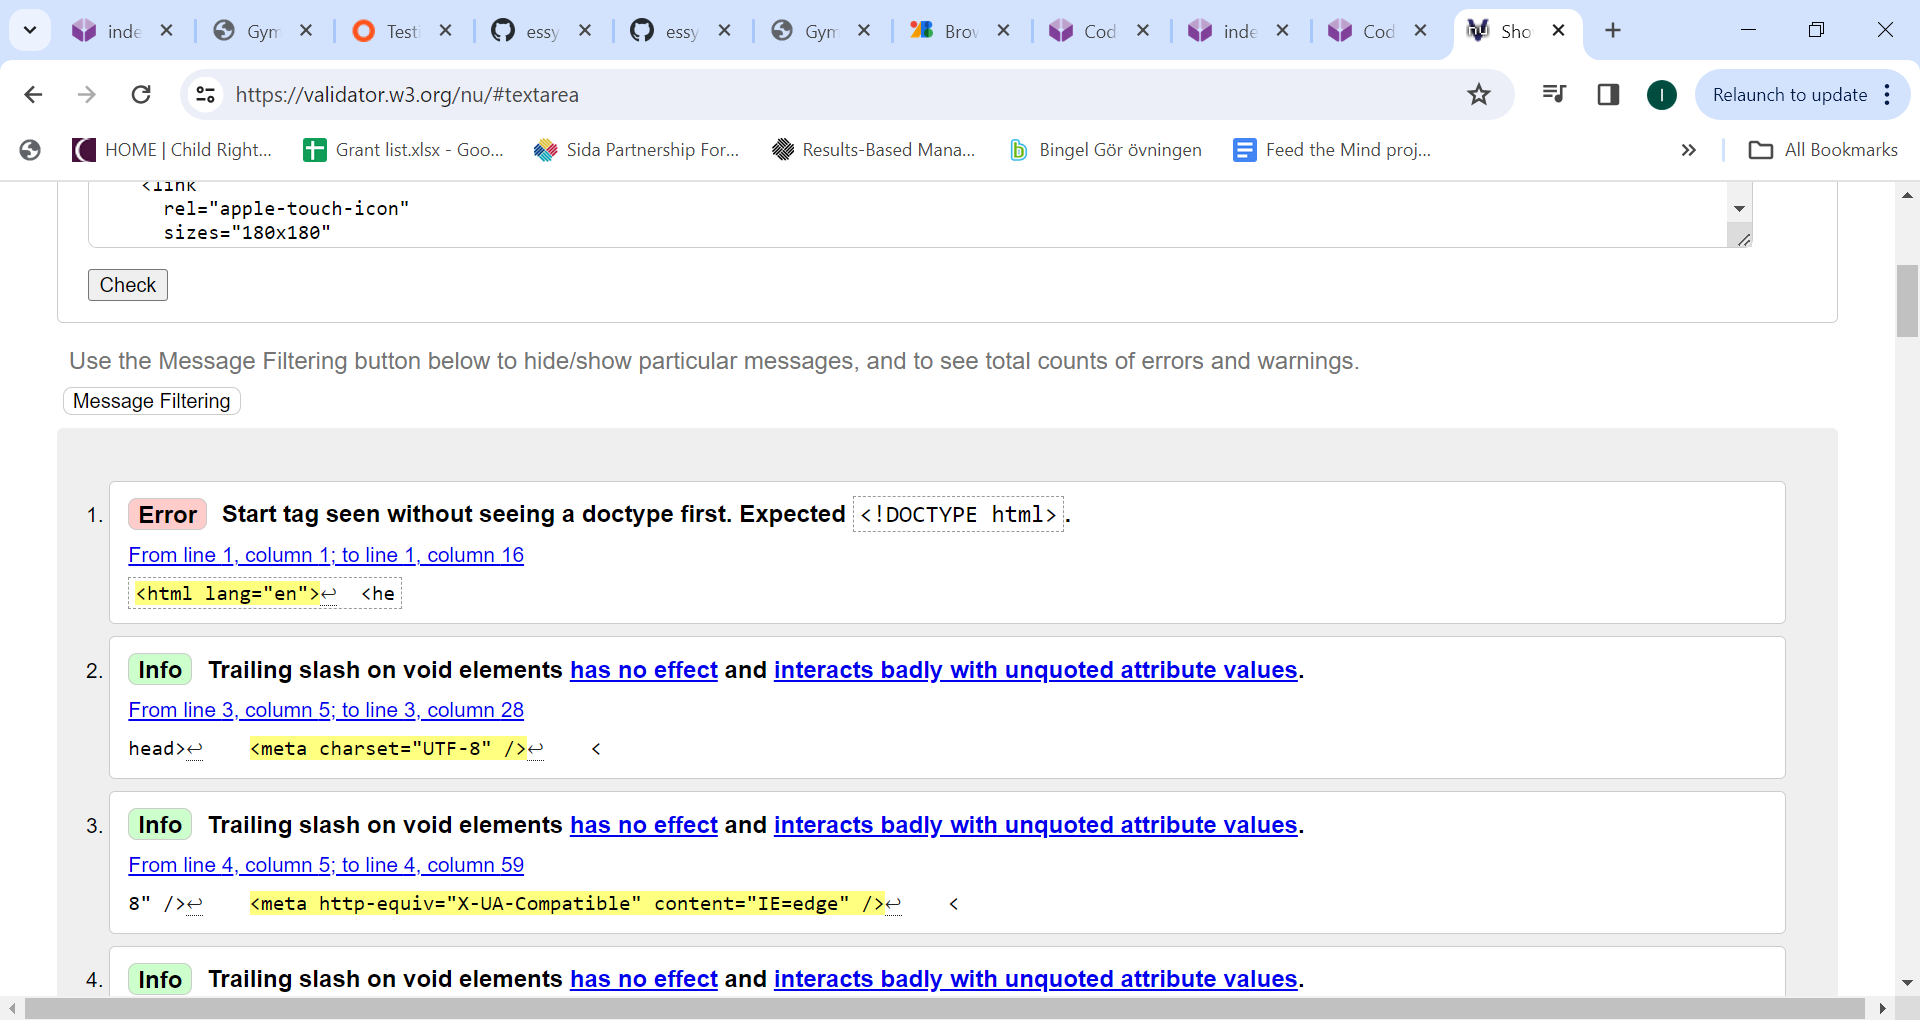
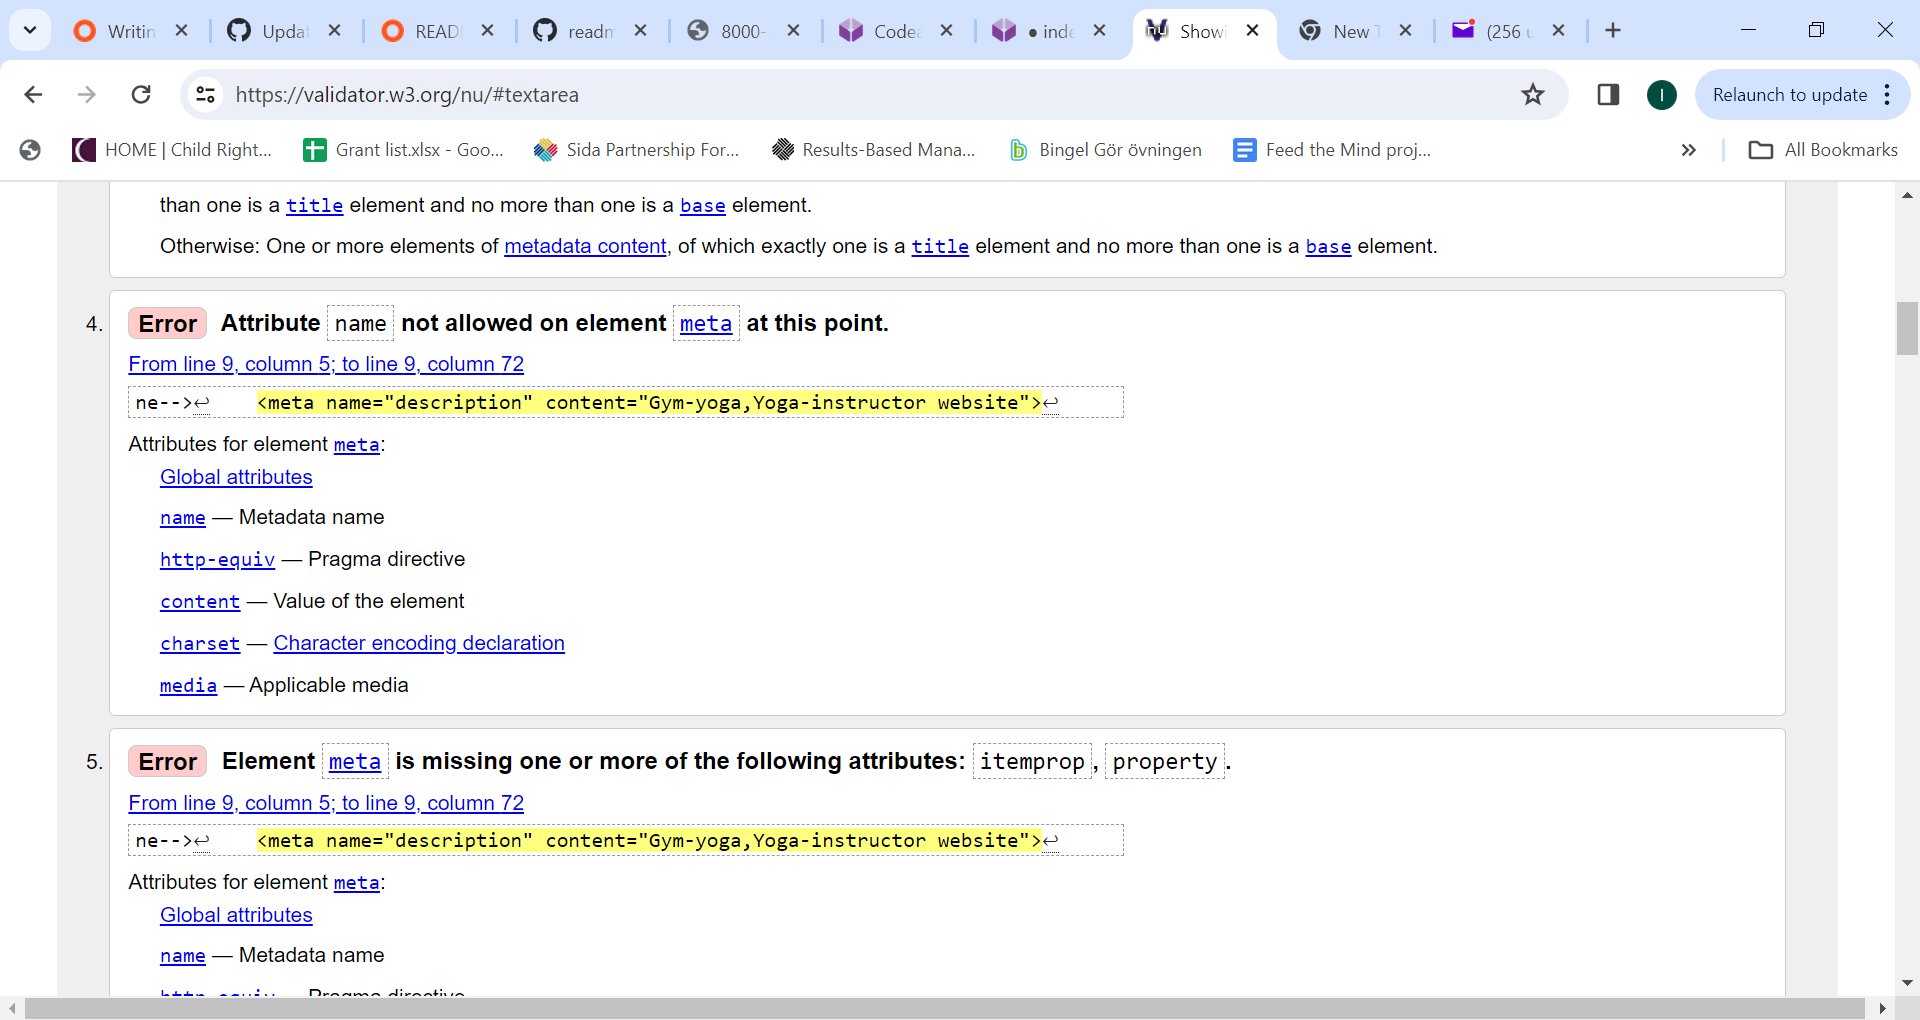
documentation/HTML-validation-no-error.png

diff --git a/README.md b/README.md
@@ -33,6 +33,10 @@ Here are the testing steps performed:
 -Validation using W3C HTML and CSS validators to ensure code standards compliance
 
 !{HTML}(assets/documentaion/HTML-validation-error.png)
+!{HTML}(assets/documentation/HTML-validation-no-error.png)
+!{CSS}(assets/documentation/CSS-validation-no-error.png)
+
+The errors were corrected by running the codes on W3C validator severally until no errors or warnings were shown.
 
 -Debugging using DevTools to identify and fixed issues that had occured.
 
